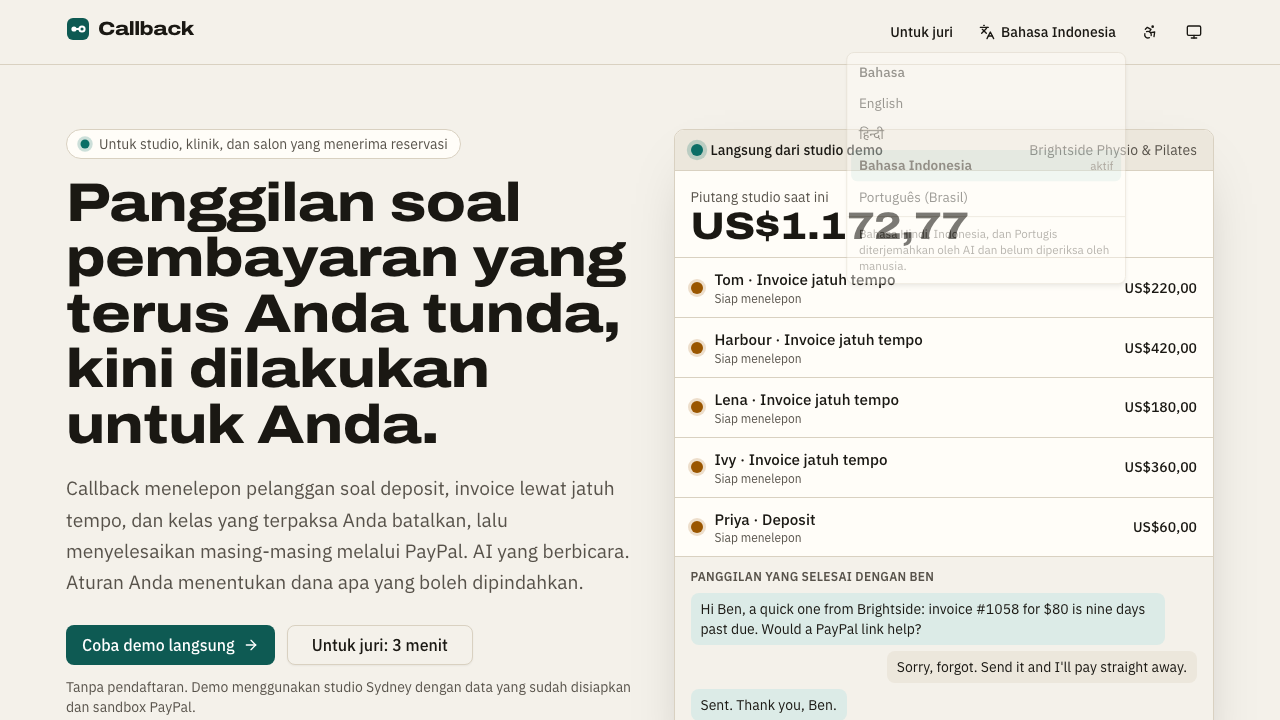
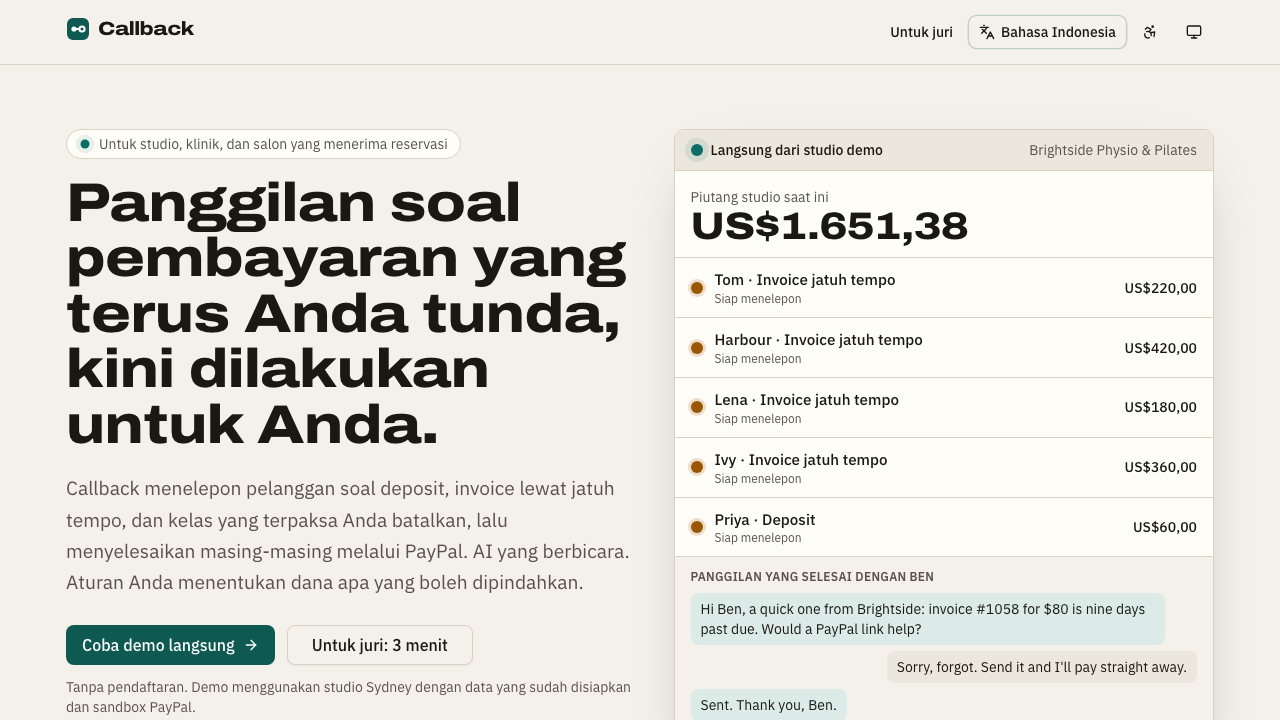
Languages: translate confirm prompts, Approve button and demo notes; i18n check catches English in seen props
- Payment and consent confirm prompts (charge/release hold, do-not-call, stop calls, kill switch, demo reset) and
  the Approve button went out in English; now through t() with machine translations in hi-IN, id-ID, pt-BR.
- The demo banner's seed notes are translated phrase by phrase (serverText).
- i18n-check rule 4: an English literal in confirmText, label, placeholder, title, aria-label, alt or description fails.
- ScamCheck labels were translated twice (callers now pass tk()); language e2e uses exact names and waits for the
  menu to close before its screenshot.
- scripts/live-voice-lang.mjs: robot caller in Hindi, Indonesian and Portuguese over the phone-bridge socket.

Unit 155/155, browser 26 passed + 1 skipped by design.

diff --git a/web/src/pages/portal.tsx b/web/src/pages/portal.tsx
@@ -9,7 +9,7 @@ import { money, moneyLamp, word } from "@/lib/format";
 import { useData, useTitle } from "@/lib/hooks";
 import { useStatusAnnouncer } from "@/lib/announce";
 
-import { savedLang, setLang, t, useLang, type Lang } from "@/i18n";
+import { savedLang, setLang, t, tk, useLang, type Lang } from "@/i18n";
 import { postJson } from "@/lib/api";
 import { MachineTranslated } from "@/components/app/lang-menu";
 
@@ -152,7 +152,7 @@ export default function PortalPage() {
                       <ActButton path={`/c/${token}/callback`} fields={{ at: slot || d.calls.slots[0].at }} variant="outline" icon={<CalendarClock />} onDone={reload} className="h-11">{t("Book it")}</ActButton>
                     </div>
                   ) : null}
-                  <ActButton path={`/c/${token}/stop`} variant="ghost" icon={<PhoneOff />} confirmText={`Stop all calls from ${d.business.name}?`} onDone={reload}>{t("Stop calling me")}</ActButton>
+                  <ActButton path={`/c/${token}/stop`} variant="ghost" icon={<PhoneOff />} confirmText={t("Stop all calls from {0}?", [d.business.name])} onDone={reload}>{t("Stop calling me")}</ActButton>
                 </>
               )}
             </Panel>
@@ -175,7 +175,7 @@ export default function PortalPage() {
             ) : null}
             <h2 className="mt-8 text-xl font-semibold" id="got-a-message">{t("Got a message about this?")}</h2>
             <p className="mt-1 text-sm text-ink-2">{t("If someone texts or emails you about money for")}{" "}{d.business.name}{t(", paste it here before you pay.")}{" "}{d.business.name}{" "}{t("only ever takes payment on this page, through PayPal.")}</p>
-            <div className="mt-3"><ScamCheck endpoint={`/c/${token}/check`} label={t("Paste the message you got")} note={t("Checked by a model on this device, rules, an AI check and a comparison with the places this business really takes payment.")} tour="portal-scam" /></div>
+            <div className="mt-3"><ScamCheck endpoint={`/c/${token}/check`} label={tk("Paste the message you got")} note={t("Checked by a model on this device, rules, an AI check and a comparison with the places this business really takes payment.")} tour="portal-scam" /></div>
             <p className="mt-8 text-xs text-ink-2">{t("This page is only for you.")}{" "}{d.business.name}{" "}{t("will never ask for a password, a one-time code or your card number.")}</p>
           </>
         ) : null}

diff --git a/web/src/i18n/server-text.ts b/web/src/i18n/server-text.ts
@@ -26,6 +26,11 @@ const RULES: Rule[] = [
   [/^stopped by the owner$/, () => t("stopped by the owner")],
   [/^over your \$([\d,.]+) limit for a (\w+) without asking$/, (m) => t("over your {amount} limit for a {action} without asking", { amount: usd(m[1]), action: t(m[2]) })],
   [/^the customer disputes this item; the owner reviews it first$/, () => t("the customer disputes this item; the owner reviews it first")],
+  [/^Paying 3 sample items from the saved sandbox wallet…$/, () => t("Paying 3 sample items from the saved sandbox wallet…")],
+  [/^The saved demo wallet is not set up, so the seed's sample payments were not made\.$/, () => t("The saved demo wallet is not set up, so the seed's sample payments were not made.")],
+  [/^(\d+) of (\d+) payments confirmed by PayPal so far…$/, (m) => t("{done} of {n} payments confirmed by PayPal so far…", { done: m[1], n: m[2] })],
+  [/^(\d+) of (\d+) payments confirmed by PayPal$/, (m) => t("{done} of {n} payments confirmed by PayPal", { done: m[1], n: m[2] })],
+  [/^not made: (.*)$/, (m) => t("not made: {0}", [m[1]])],
   [/^transcript decision: (\w+)$/, (m) => t("transcript decision: {0}", [m[1].replace(/_/g, " ")])],
 ];
 
@@ -54,5 +59,6 @@ export const SERVER_KEYS = [
   "kill switch on calls: {0}", "customer is on the do-not-call list", "no recorded consent to be called", "consent revoked {0}", "the policy does not allow {0} calls",
   "not a calling day ({day} in {tz})", "outside calling hours: {time} in {tz}, window {start}–{end} (statutory floor 08:00–21:00)", "already {n} attempts today (limit {max})",
   "last attempt under {0} h ago", "skipped by staff", "stopped by the owner", "over your {amount} limit for a {action} without asking",
-  "the customer disputes this item; the owner reviews it first", "transcript decision: {0}", "not called: {0}", "charge", "invoice", "plan", "discount", "refund", "hold",
+  "the customer disputes this item; the owner reviews it first", "transcript decision: {0}", "not called: {0}", "Paying 3 sample items from the saved sandbox wallet…", "The saved demo wallet is not set up, so the seed's sample payments were not made.",
+  "{done} of {n} payments confirmed by PayPal so far…", "{done} of {n} payments confirmed by PayPal", "not made: {0}", "charge", "invoice", "plan", "discount", "refund", "hold",
 ];

diff --git a/web/src/components/app/shell.tsx b/web/src/components/app/shell.tsx
@@ -17,6 +17,7 @@ import { HandsFreeToggle } from "@/handsfree/host";
 import { TOUR_PAGE } from "@/tour/tours";
 
 import { t, tlist } from "@/i18n";
+import { serverText } from "@/i18n/server-text";
 interface NavItem { to: string; label: string; icon: typeof Inbox; owner?: boolean; tour?: string }
 export const NAV: NavItem[] = tlist([
   { to: "/today", label: "Today", icon: LayoutDashboard, tour: "nav-today" },
@@ -45,7 +46,7 @@ export function DemoRibbon() {
     <div className="border-b border-line bg-surface-2 text-[0.8rem] text-ink" role="note" aria-label={t("Demo status")}>
       <div className="mx-auto flex max-w-[1240px] flex-wrap items-center gap-x-3 gap-y-1 px-4 py-1.5">
         <span className="font-semibold">{session.workspace ? t("Your private demo") : t("Demo studio")}</span>
-        {session.workspace?.seed_note ? <span className="text-ink-2" role="status">{session.workspace.seed_note}</span> : null}
+        {session.workspace?.seed_note ? <span className="text-ink-2" role="status">{serverText(session.workspace.seed_note)}</span> : null}
         <span className="inline-flex items-center gap-1.5"><span className="lamp scale-75" data-s="live" aria-hidden="true" />{t("Live:")}{" "}{live || t("nothing external")}</span>
         <span className="inline-flex items-center gap-1.5"><span className="lamp scale-75" data-s="idle" aria-hidden="true" />{t("Simulated:")}{" "}{sim.join(", ")}{session.business?.pinned ? t(", the clock") : ""}</span>
         {session.business ? <span className="num text-ink-2">{t("Studio time")}{" "}{session.business.clock_local}</span> : null}

diff --git a/web/src/pages/demo.tsx b/web/src/pages/demo.tsx
@@ -64,8 +64,8 @@ export default function DemoPage() {
           <Panel className="space-y-3 p-4">
             <p className="text-sm">{t("Wipes every demo call, payment record and approval, reseeds the studio and re-plans. PayPal sandbox records already created stay in PayPal.")}</p>
             <div className="flex flex-wrap gap-2">
-              <ActButton path="/demo/reset" fields={{ pin: "1" }} icon={<RotateCcw />} confirmText="Reset the demo studio? Every demo record is wiped." onDone={refresh} disabled={!owner && d.seeded}>{t("Reset, demo morning")}</ActButton>
-              <ActButton path="/demo/reset" fields={{ pin: "0" }} variant="outline" confirmText="Reset on real time? Some calls may be outside calling hours right now." onDone={refresh} disabled={!owner && d.seeded}>{t("Reset, real time")}</ActButton>
+              <ActButton path="/demo/reset" fields={{ pin: "1" }} icon={<RotateCcw />} confirmText={t("Reset the demo studio? Every demo record is wiped.")} onDone={refresh} disabled={!owner && d.seeded}>{t("Reset, demo morning")}</ActButton>
+              <ActButton path="/demo/reset" fields={{ pin: "0" }} variant="outline" confirmText={t("Reset on real time? Some calls may be outside calling hours right now.")} onDone={refresh} disabled={!owner && d.seeded}>{t("Reset, real time")}</ActButton>
             </div>
             {!owner ? <p className="text-xs text-ink-2">{t("Only the owner can reset.")}</p> : null}
           </Panel>

diff --git a/web/src/pages/landing.tsx b/web/src/pages/landing.tsx
@@ -8,7 +8,7 @@ import { Panel } from "@/components/app/bits";
 import { useData, useSession, useTitle } from "@/lib/hooks";
 import { money, PURPOSE } from "@/lib/format";
 
-import { t, tlist } from "@/i18n";
+import { t, tk, tlist } from "@/i18n";
 interface Preview {
   business: { name: string; tz: string } | null;
   owed_cents?: number;
@@ -155,7 +155,7 @@ export default function Landing() {
       <section className="mx-auto max-w-[820px] px-4 pb-14" aria-labelledby="try-scam">
         <h2 id="try-scam" className="font-display text-h2 font-[750]" style={{ fontStretch: "112%" }}>{t("Try the scam check")}</h2>
         <p className="mt-2 text-ink-2">{t("Paste any message. A scam model trained for this project scores it in your browser. Nothing you paste leaves this page. The model downloads once (23 MB).")}</p>
-        <div className="mt-4"><ScamCheck deviceOnly label={t("Message to check")} note={t("Checked on this device only. Inside the app, rules, an AI check and a comparison with the business's record also run; green appears only when all of them ran.")} /></div>
+        <div className="mt-4"><ScamCheck deviceOnly label={tk("Message to check")} note={t("Checked on this device only. Inside the app, rules, an AI check and a comparison with the business's record also run; green appears only when all of them ran.")} /></div>
       </section>
 
       <section className="mx-auto max-w-[820px] px-4 py-14" aria-labelledby="faq">

diff --git a/e2e/languages.spec.ts b/e2e/languages.spec.ts
@@ -25,6 +25,7 @@ for (const L of LANGS) {
     await page.getByRole("button", { name: /^Language: / }).first().click();
     await page.getByRole("menuitemradio", { name: L.name }).click();
     await expect(page.locator("html")).toHaveAttribute("lang", L.code);
+    await expect(page.getByRole("menu")).toHaveCount(0); // the closing menu is out of the picture
     await page.screenshot({ path: `docs/screenshots/lang/${L.code}-landing.png` });
 
     await page.goto("/try");
@@ -48,7 +49,7 @@ for (const L of LANGS) {
     await page.getByRole("button", { name: T("Start in simulator") }).click();
     const box = page.getByLabel(T("What the customer says"));
     await box.fill(L.line);
-    await page.getByRole("button", { name: T("Say it") }).click();
+    await page.getByRole("button", { name: T("Say it"), exact: true }).click();
     await expect(page.locator("main")).toContainText(L.line, { timeout: 20_000 });
     await page.screenshot({ path: `docs/screenshots/lang/${L.code}-call.png`, fullPage: true });
 
@@ -62,6 +63,6 @@ for (const L of LANGS) {
     await page.screenshot({ path: `docs/screenshots/lang/${L.code}-customer.png`, fullPage: true });
 
     const missing = await page.evaluate(() => (window as any).__cbI18n.missing());
-    expect(missing, "interface text shown with no translation").toEqual([]);
+    expect(missing, `interface text shown with no translation: ${JSON.stringify(missing)}`).toEqual([]);
   });
 }

diff --git a/web/src/pages/money.tsx b/web/src/pages/money.tsx
@@ -94,8 +94,8 @@ export default function MoneyPage() {
                 <div className="num font-medium">{money(h.cents)}</div>
                 {h.status === "authorized" ? (
                   <div className="flex flex-wrap gap-2">
-                    <ActButton path={`/holds/${h.id}/capture`} onDone={reload} confirmText={`Charge ${h.customer} ${money(h.cents)} from the hold?`}>{t("Attended: charge")}</ActButton>
-                    <ActButton path={`/holds/${h.id}/void`} variant="outline" onDone={reload} confirmText={`Release the ${money(h.cents)} hold for ${h.customer}?`}>{t("Cancelled in time: release")}</ActButton>
+                    <ActButton path={`/holds/${h.id}/capture`} onDone={reload} confirmText={t("Charge {name} {amount} from the hold?", { name: h.customer, amount: money(h.cents) })}>{t("Attended: charge")}</ActButton>
+                    <ActButton path={`/holds/${h.id}/void`} variant="outline" onDone={reload} confirmText={t("Release the {amount} hold for {name}?", { name: h.customer, amount: money(h.cents) })}>{t("Cancelled in time: release")}</ActButton>
                   </div>
                 ) : null}
               </li>

diff --git a/web/src/pages/customer.tsx b/web/src/pages/customer.tsx
@@ -163,7 +163,7 @@ export default function CustomerPage() {
                 <StateChip s="done">{t("Consent on file")}</StateChip>
                 <p className="mt-2 text-sm">“{c.consent.text}”</p>
                 <p className="text-xs text-ink-2">{c.consent.source} · {when(c.consent.granted_at)}</p>
-                {owner ? <ActButton path={`/customers/${c.id}/consent`} fields={{ op: "revoke" }} variant="outline" size="sm" className="mt-3" confirmText={`Mark ${c.name} do-not-call? Callback will never call them again.`} onDone={reload}>{t("Mark do-not-call")}</ActButton> : null}
+                {owner ? <ActButton path={`/customers/${c.id}/consent`} fields={{ op: "revoke" }} variant="outline" size="sm" className="mt-3" confirmText={t("Mark {0} do-not-call? Callback will never call them again.", [c.name])} onDone={reload}>{t("Mark do-not-call")}</ActButton> : null}
               </>
             ) : (
               <>

diff --git a/web/src/components/app/approval.tsx b/web/src/components/app/approval.tsx
@@ -86,7 +86,7 @@ export function ApprovalCard({ a, passkey, onDone, compact = false }: { a: Appro
       <div className="flex flex-wrap items-center gap-2 border-t border-line px-4 py-3">
         <Button onClick={() => decide("approve")} disabled={busy !== null} aria-busy={busy === "approve"}>
           {busy === "approve" ? <Loader2 className="animate-spin" /> : needsKey ? <Fingerprint /> : <Check />}
-          {needsKey ? t("Approve {0} with passkey", [money(a.cents)]) : `Approve ${a.cents !== null ? money(a.cents) : ""}`.trim()}
+          {needsKey ? t("Approve {0} with passkey", [money(a.cents)]) : (a.cents !== null ? t("Approve {0}", [money(a.cents)]) : t("Approve"))}
         </Button>
         <Button variant="outline" onClick={() => decide("decline")} disabled={busy !== null} aria-busy={busy === "decline"}>
           {busy === "decline" ? <Loader2 className="animate-spin" /> : <X />}{" "}{t("Decline")}

diff --git a/web/src/pages/approvals.tsx b/web/src/pages/approvals.tsx
@@ -139,7 +139,7 @@ export default function ApprovalsPage() {
                   size="sm"
                   variant={k.engaged ? "outline" : "ghost"}
                   icon={k.engaged ? <Power /> : <OctagonX />}
-                  confirmText={k.engaged ? undefined : `Stop ${SCOPE[k.scope] ?? k.scope}?`}
+                  confirmText={k.engaged ? undefined : t("Stop {0}?", [SCOPE[k.scope] ?? k.scope])}
                   onDone={refresh}
                 >
                   {k.engaged ? t("Start") : t("Stop")}
